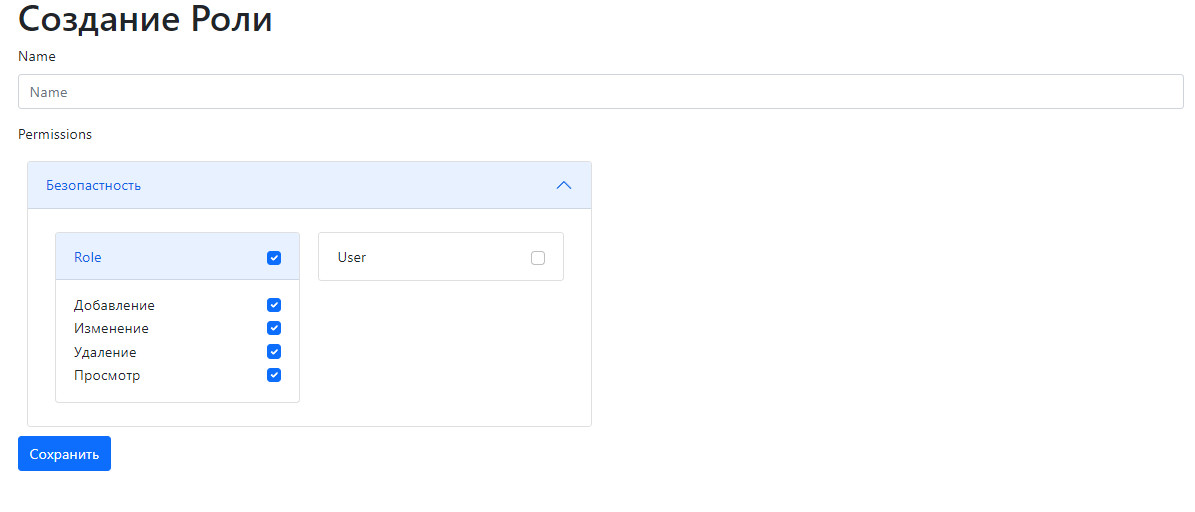
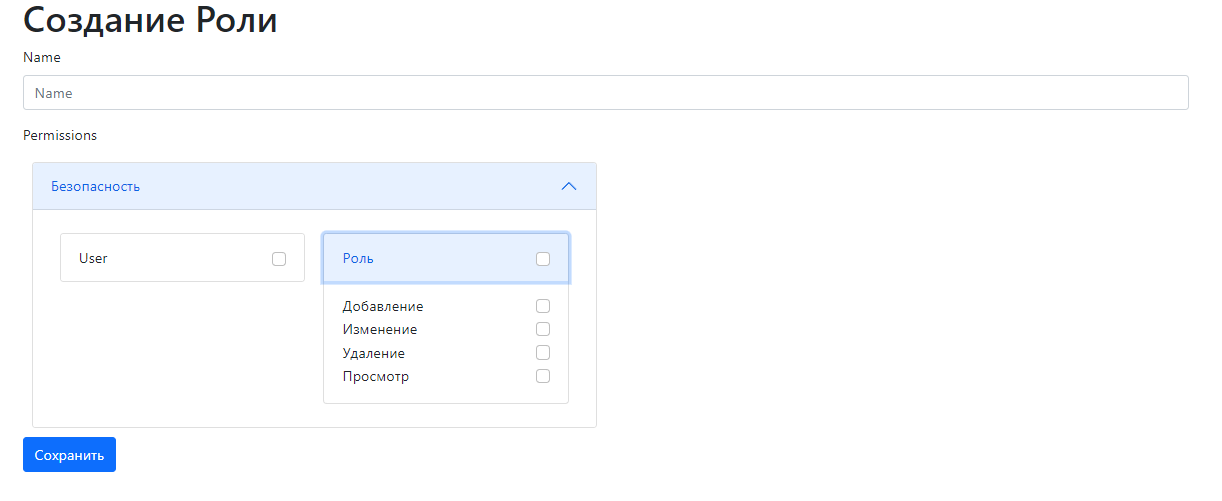
fix: change example

diff --git a/core/migrations/0001_initial.py b/core/migrations/0001_initial.py
@@ -1,0 +1,44 @@
+# Generated by Django 4.1.7 on 2023-03-21 04:13
+
+from django.db import migrations, models
+import django.db.models.deletion
+import django.utils.timezone
+import user_role.managers
+
+
+class Migration(migrations.Migration):
+
+    initial = True
+
+    dependencies = [
+        ('auth', '0012_alter_user_first_name_max_length'),
+        ('user_role', '0001_initial'),
+    ]
+
+    operations = [
+        migrations.CreateModel(
+            name='User',
+            fields=[
+                ('id', models.BigAutoField(auto_created=True, primary_key=True, serialize=False, verbose_name='ID')),
+                ('password', models.CharField(max_length=128, verbose_name='password')),
+                ('last_login', models.DateTimeField(blank=True, null=True, verbose_name='last login')),
+                ('is_superuser', models.BooleanField(default=False, help_text='Designates that this user has all permissions without explicitly assigning them.', verbose_name='superuser status')),
+                ('first_name', models.CharField(blank=True, max_length=150, verbose_name='first name')),
+                ('last_name', models.CharField(blank=True, max_length=150, verbose_name='last name')),
+                ('is_staff', models.BooleanField(default=False, help_text='Designates whether the user can log into this admin site.', verbose_name='staff status')),
+                ('is_active', models.BooleanField(default=True, help_text='Designates whether this user should be treated as active. Unselect this instead of deleting accounts.', verbose_name='active')),
+                ('date_joined', models.DateTimeField(default=django.utils.timezone.now, verbose_name='date joined')),
+                ('email', models.EmailField(max_length=254, unique=True)),
+                ('role', models.ForeignKey(blank=True, help_text="This user's role.The user has all the permissions granted by the role.", null=True, on_delete=django.db.models.deletion.SET_NULL, related_name='user', to='user_role.role', verbose_name='Роль')),
+                ('user_permissions', models.ManyToManyField(blank=True, help_text='Specific permissions for this user.', related_name='user_set', related_query_name='user', to='auth.permission', verbose_name='user permissions')),
+            ],
+            options={
+                'verbose_name': 'user',
+                'verbose_name_plural': 'users',
+                'abstract': False,
+            },
+            managers=[
+                ('objects', user_role.managers.UserManager()),
+            ],
+        ),
+    ]

diff --git a/core/forms.py b/core/forms.py
@@ -1,0 +1,21 @@
+from django import forms
+from django.contrib.auth.models import Permission
+from django.utils.translation import gettext_lazy as _
+
+from core.widgets import PermissionsSelectMultiply
+from user_role.models import Role
+
+
+class RoleCreationForm(forms.ModelForm):
+    permissions = forms.ModelMultipleChoiceField(
+        label=_("Permissions"),
+        widget=PermissionsSelectMultiply(),
+        queryset=Permission.objects.all()
+    )
+
+    class Meta:
+        model = Role
+        fields = [
+            "name",
+            "permissions"
+        ]

diff --git a/django_user_role/settings.py b/django_user_role/settings.py
@@ -38,7 +38,8 @@ INSTALLED_APPS = [
     'django.contrib.messages',
     'django.contrib.staticfiles',
     "user_role",
-    "bootstrap5"
+    "bootstrap5",
+    "core"
 ]
 
 MIDDLEWARE = [
@@ -125,7 +126,7 @@ STATIC_URL = 'static/'
 DEFAULT_AUTO_FIELD = 'django.db.models.BigAutoField'
 
 
-AUTH_USER_MODEL = "user_role.User"
+AUTH_USER_MODEL = "core.User"
 
 PERMISSIONS_LABELS = {
     "add": "Добавление",

diff --git a/django_user_role/urls.py b/django_user_role/urls.py
@@ -18,7 +18,8 @@ from django.urls import path
 from django.conf.urls.static import static
 from django.conf import settings
 
-from user_role.views import CreateRoleView, UpdateRoleView
+from user_role.views import UpdateRoleView
+from core.views import CreateRoleView
 
 urlpatterns = [
     path('admin/', admin.site.urls),

diff --git a/core/views.py b/core/views.py
@@ -1,3 +1,9 @@
 from django.shortcuts import render
+from django.views.generic import CreateView
 
-# Create your views here.
+from core.forms import RoleCreationForm
+
+
+class CreateRoleView(CreateView):
+    form_class = RoleCreationForm
+    template_name = "role/create.html"

diff --git a/core/widgets.py b/core/widgets.py
@@ -1,0 +1,7 @@
+from user_role.widgets import PermissionsSelectMultiply as AuthPermissionsSelectMultiply
+
+
+class PermissionsSelectMultiply(AuthPermissionsSelectMultiply):
+    groups_permissions = {
+        "Безопасность": ["user_role.role", "core.user"]
+    }

diff --git a/user_role/models.py b/user_role/models.py
@@ -31,7 +31,7 @@ class AbstractUser(AuthAbstractUser):
     groups = None
     role = models.ForeignKey(
         Role,
-        verbose_name=_("role"),
+        verbose_name="Роль",
         blank=True,
         null=True,
         help_text=_(

diff --git a/core/models.py b/core/models.py
@@ -1,3 +1,5 @@
-from django.db import models
+from user_role.models import AbstractUser
 
-# Create your models here.
+
+class User(AbstractUser):
+    ...
